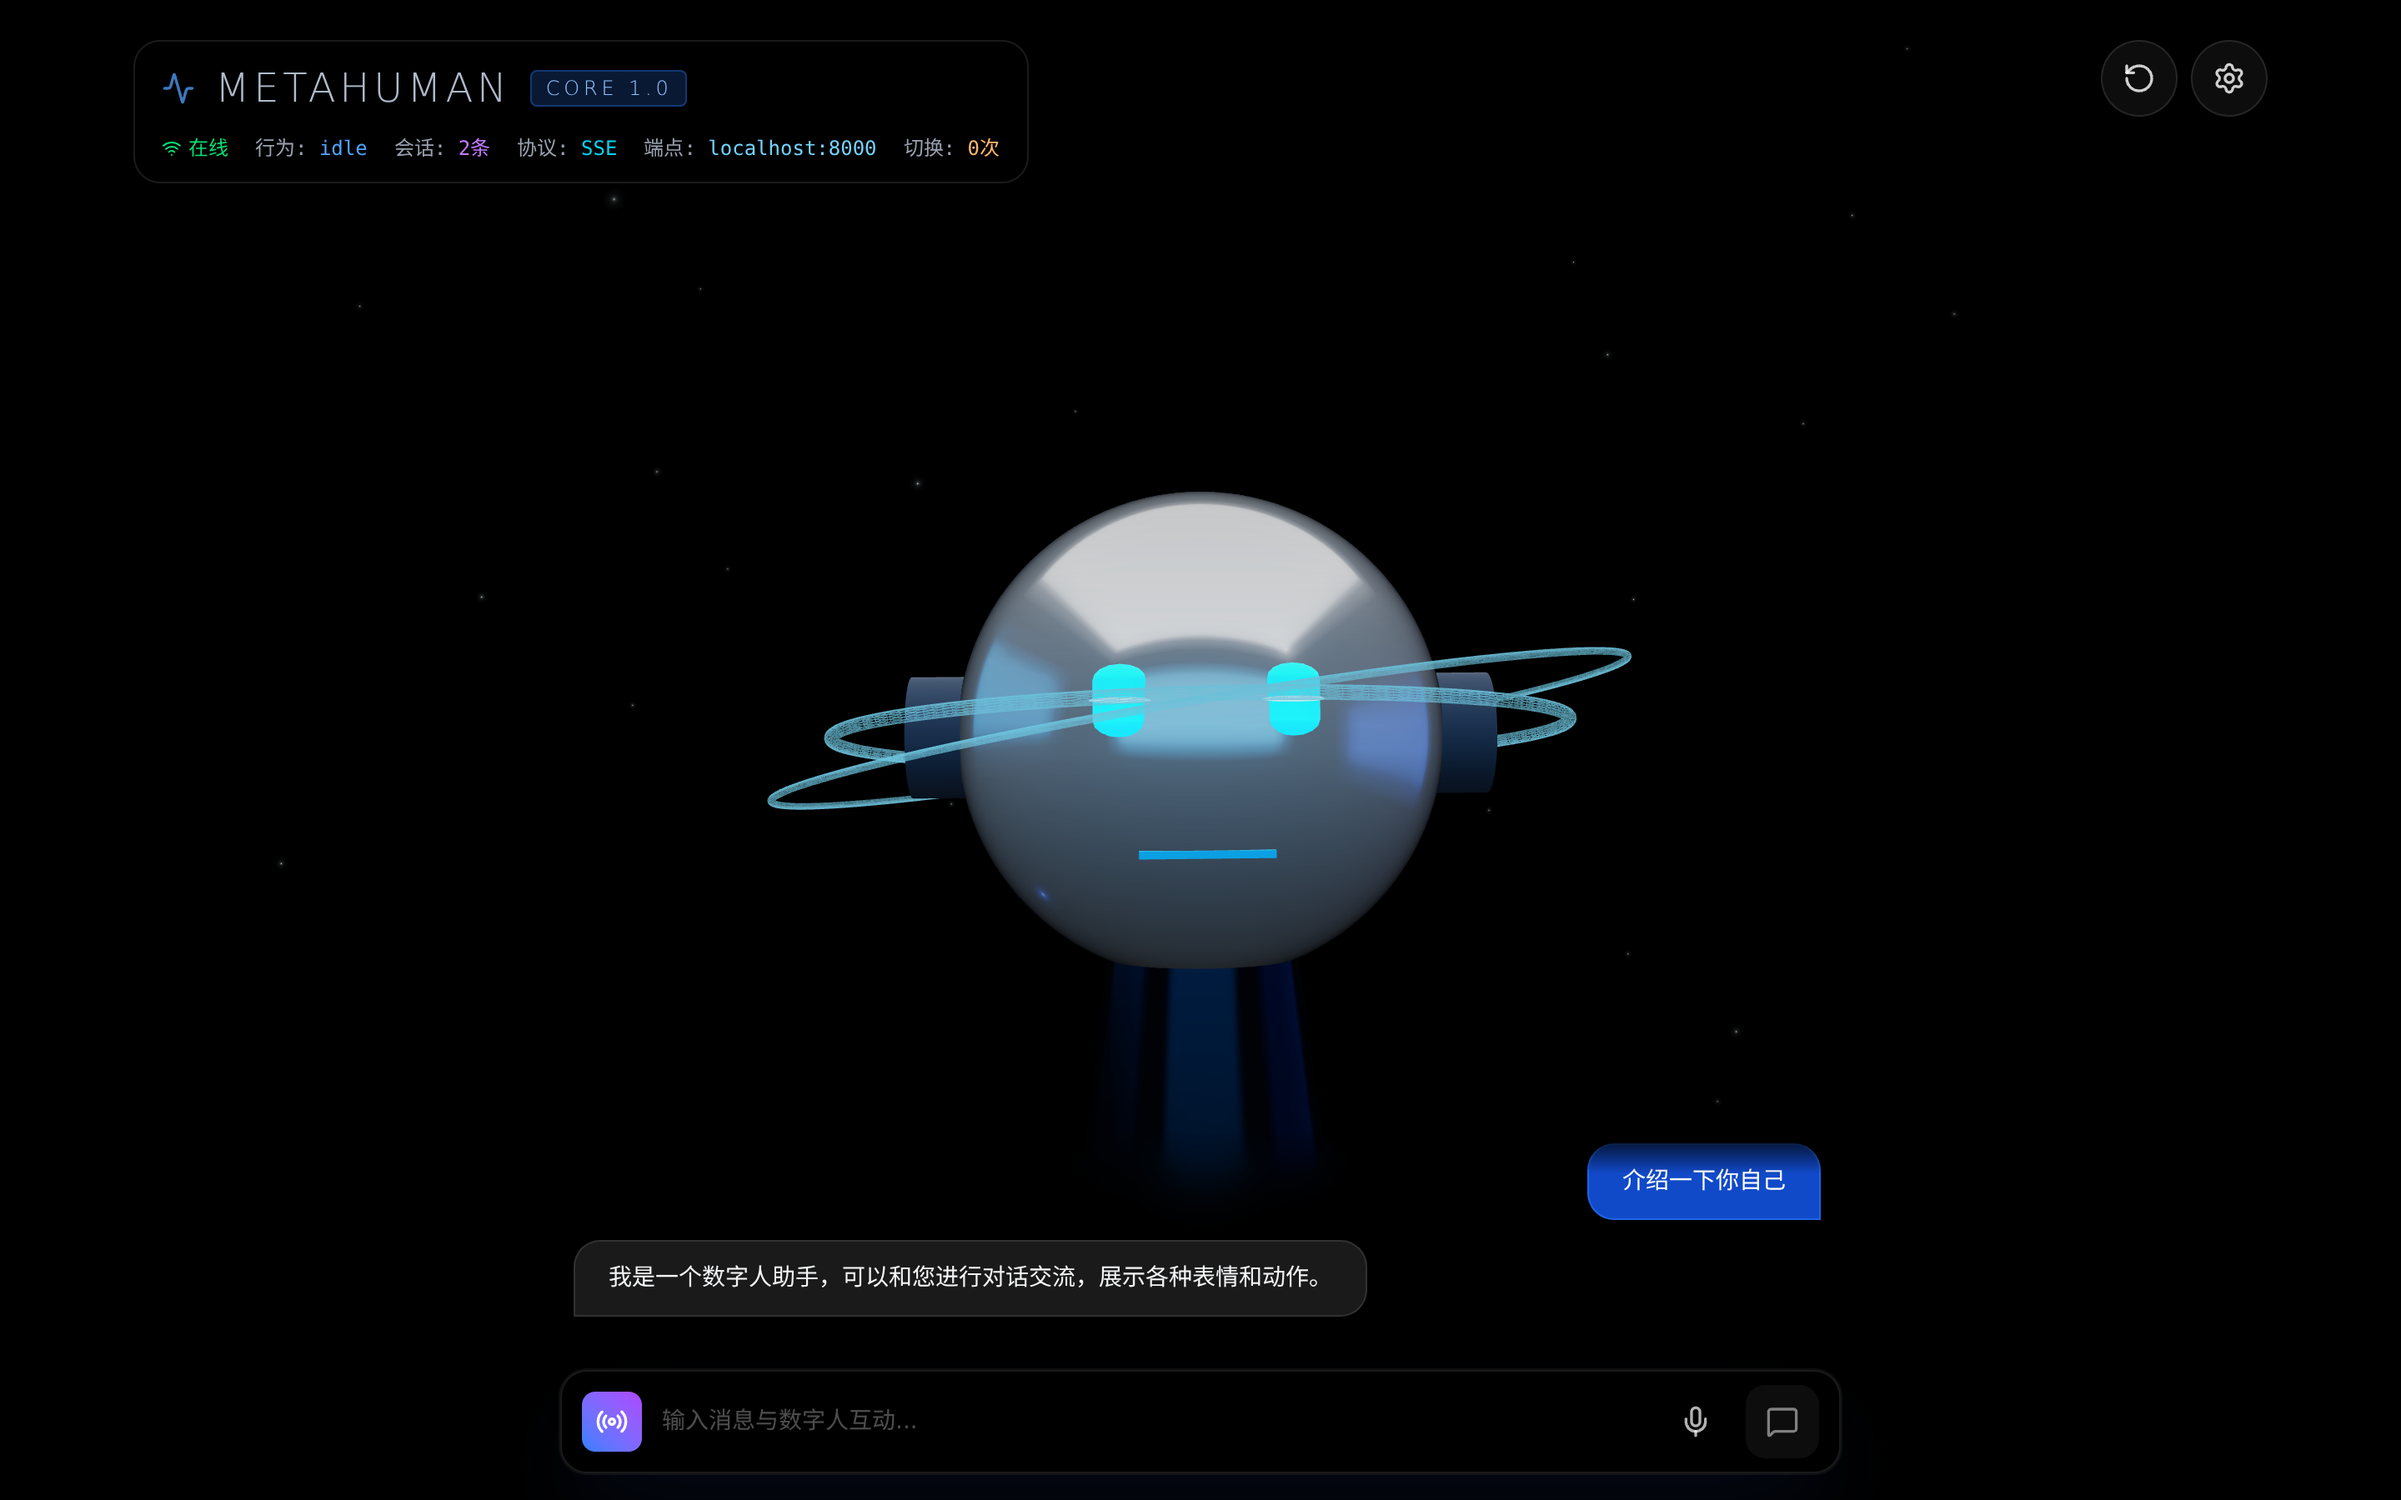
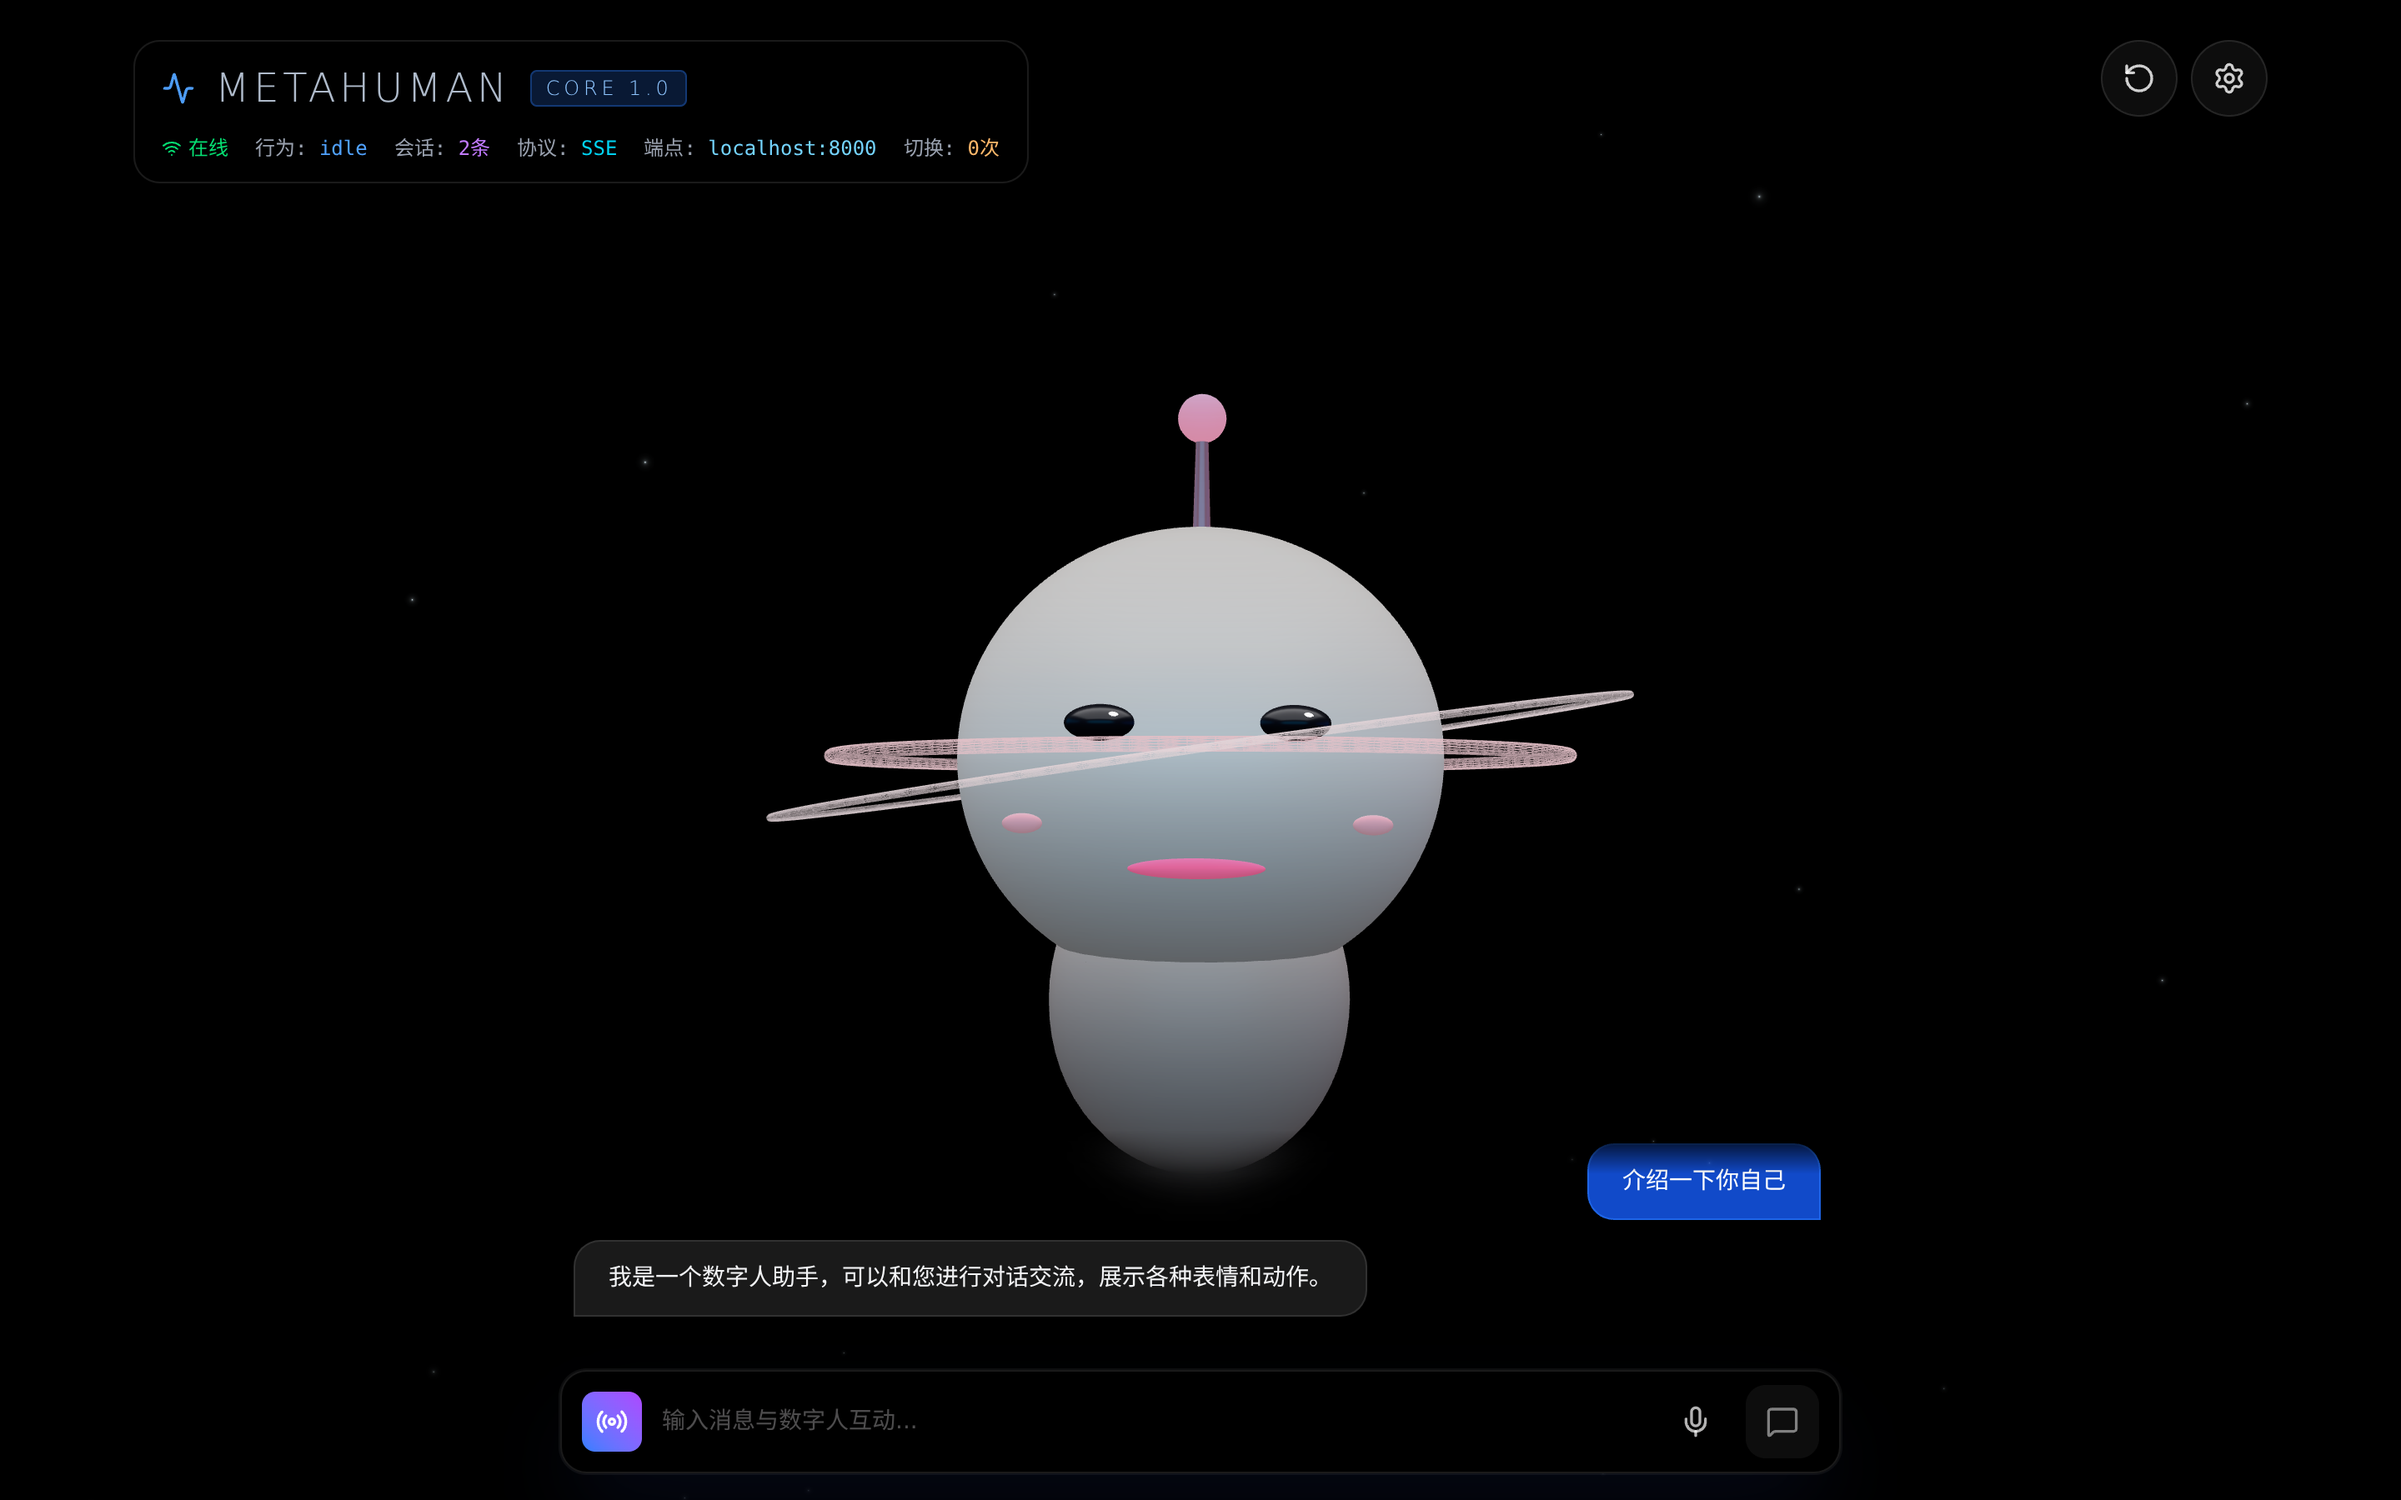
style: 默认数字人形象改为软萌可爱风格，README 精简为单张对话截图

Changed region(s): [[0.3125, 0.2489, 0.6875, 0.7778]]

diff --git a/src/components/viewer/CyberAvatar.tsx b/src/components/viewer/CyberAvatar.tsx
@@ -1,7 +1,7 @@
 /**
  * 程序化数字人头像组件。
  *
- * 使用 Three.js 基础几何体构建的赛博风格头像，
+ * 使用 Three.js 基础几何体构建的软萌可爱风格头像，
  * 支持表情、动画和语音同步。
  */
 
@@ -174,65 +174,96 @@ export function CyberAvatar({ prefersReducedMotion }: CyberAvatarProps) {
         rotationIntensity={0.2}
         floatIntensity={prefersReducedMotion ? 0 : 0.5}
       >
-        {/* --- 头部 --- */}
-        <mesh ref={headRef} position={[0, 0, 0]} castShadow receiveShadow>
-          {/* 主头部形状 - 平滑的胶囊/球体混合 */}
-          <sphereGeometry args={[0.8, 64, 64]} />
-          <meshPhysicalMaterial
-            color="#e2e8f0"
-            metalness={0.6}
-            roughness={0.2}
-            clearcoat={1}
-            clearcoatRoughness={0.1}
-          />
+        {/* --- 天线 --- */}
+        <mesh position={[0, 0.9, 0]}>
+          <cylinderGeometry args={[0.02, 0.03, 0.35, 16]} />
+          <meshStandardMaterial color="#ffb3c1" metalness={0.4} roughness={0.3} />
         </mesh>
-
-        {/* --- 眼睛 --- */}
-        <group position={[0, 0.1, 0.75]}>
-          <mesh ref={leftEyeRef} position={[-0.25, 0, 0]}>
-            <capsuleGeometry args={[0.08, 0.2, 4, 8]} />
-            <meshStandardMaterial
-              color="#0ea5e9"
-              emissive="#0ea5e9"
-              emissiveIntensity={2}
-              toneMapped={false}
-            />
-          </mesh>
-          <mesh ref={rightEyeRef} position={[0.25, 0, 0]}>
-            <capsuleGeometry args={[0.08, 0.2, 4, 8]} />
-            <meshStandardMaterial
-              color="#0ea5e9"
-              emissive="#0ea5e9"
-              emissiveIntensity={2}
-              toneMapped={false}
-            />
-          </mesh>
-          {/* 眼睛发光球体（瞳孔） */}
-          <mesh position={[-0.25, 0, 0.05]} scale={[1, 0.1, 1]}>
-            <sphereGeometry args={[0.09, 16, 16]} />
-            <meshStandardMaterial color="#0ea5e9" emissive="#0ea5e9" emissiveIntensity={4} />
-          </mesh>
-          <mesh position={[0.25, 0, 0.05]} scale={[1, 0.1, 1]}>
-            <sphereGeometry args={[0.09, 16, 16]} />
-            <meshStandardMaterial color="#0ea5e9" emissive="#0ea5e9" emissiveIntensity={4} />
-          </mesh>
-        </group>
-
-        {/* --- 嘴部（Lipsync 驱动） --- */}
-        <mesh ref={mouthRef} position={[0, -0.35, 0.72]} scale={[1, 0.15, 1]}>
-          <boxGeometry args={[0.4, 0.15, 0.05]} />
+        <mesh position={[0, 1.12, 0]}>
+          <sphereGeometry args={[0.08, 24, 24]} />
           <meshStandardMaterial
-            color="#0284c7"
-            emissive="#0284c7"
-            emissiveIntensity={1.5}
+            color="#ff8fab"
+            emissive="#ff8fab"
+            emissiveIntensity={1.2}
             toneMapped={false}
           />
         </mesh>
 
-        {/* --- 颈部/底座 --- */}
-        <mesh position={[0, -1, 0]}>
-          <cylinderGeometry args={[0.3, 0.4, 0.8, 32]} />
-          <meshStandardMaterial color="#334155" metalness={0.8} roughness={0.2} />
+        {/* --- 头部：圆润的大头，往可爱方向的比例 --- */}
+        <mesh ref={headRef} position={[0, 0, 0]} castShadow receiveShadow scale={[1, 0.95, 1]}>
+          <sphereGeometry args={[0.8, 64, 64]} />
+          <meshStandardMaterial color="#fff3ea" metalness={0.05} roughness={0.55} />
+        </mesh>
+
+        {/* --- 眼睛：大圆眼 + 高光 --- */}
+        <group position={[0, 0.12, 0.72]}>
+          <mesh ref={leftEyeRef} position={[-0.28, 0, 0]}>
+            <sphereGeometry args={[0.11, 24, 24]} />
+            <meshStandardMaterial color="#26262e" roughness={0.25} />
+            <mesh position={[0.035, 0.045, 0.075]} scale={[0.42, 0.42, 0.42]}>
+              <sphereGeometry args={[0.05, 12, 12]} />
+              <meshStandardMaterial
+                color="#ffffff"
+                emissive="#ffffff"
+                emissiveIntensity={0.8}
+                toneMapped={false}
+              />
+            </mesh>
+          </mesh>
+          <mesh ref={rightEyeRef} position={[0.28, 0, 0]}>
+            <sphereGeometry args={[0.11, 24, 24]} />
+            <meshStandardMaterial color="#26262e" roughness={0.25} />
+            <mesh position={[0.035, 0.045, 0.075]} scale={[0.42, 0.42, 0.42]}>
+              <sphereGeometry args={[0.05, 12, 12]} />
+              <meshStandardMaterial
+                color="#ffffff"
+                emissive="#ffffff"
+                emissiveIntensity={0.8}
+                toneMapped={false}
+              />
+            </mesh>
+          </mesh>
+        </group>
+
+        {/* --- 腮红：软粉脸颊 --- */}
+        <mesh position={[-0.52, -0.18, 0.64]} scale={[0.5, 0.25, 0.2]}>
+          <sphereGeometry args={[0.12, 16, 16]} />
+          <meshStandardMaterial
+            color="#ffb3c1"
+            transparent
+            opacity={0.85}
+            emissive="#ffb3c1"
+            emissiveIntensity={0.3}
+            toneMapped={false}
+          />
+        </mesh>
+        <mesh position={[0.52, -0.18, 0.64]} scale={[0.5, 0.25, 0.2]}>
+          <sphereGeometry args={[0.12, 16, 16]} />
+          <meshStandardMaterial
+            color="#ffb3c1"
+            transparent
+            opacity={0.85}
+            emissive="#ffb3c1"
+            emissiveIntensity={0.3}
+            toneMapped={false}
+          />
+        </mesh>
+
+        {/* --- 嘴部（Lipsync 驱动，椭圆小嘴） --- */}
+        <mesh ref={mouthRef} position={[0, -0.3, 0.78]} scale={[0.85, 0.2, 0.15]}>
+          <sphereGeometry args={[0.2, 24, 24]} />
+          <meshStandardMaterial
+            color="#ff6b9d"
+            emissive="#ff6b9d"
+            emissiveIntensity={0.6}
+            toneMapped={false}
+          />
+        </mesh>
+
+        {/* --- 软萌小身体 --- */}
+        <mesh position={[0, -0.8, 0]} scale={[1, 1.15, 1]} castShadow>
+          <sphereGeometry args={[0.5, 32, 32]} />
+          <meshStandardMaterial color="#fde8e0" metalness={0.05} roughness={0.55} />
         </mesh>
 
         {/* --- 全息光环 --- */}
@@ -240,9 +271,9 @@ export function CyberAvatar({ prefersReducedMotion }: CyberAvatarProps) {
           <mesh rotation={[Math.PI / 2, 0, 0]}>
             <torusGeometry args={[1.2, 0.02, 16, 100]} />
             <meshBasicMaterial
-              color="#38bdf8"
+              color="#ffb3c1"
               transparent
-              opacity={0.3}
+              opacity={0.35}
               side={THREE.DoubleSide}
               wireframe
             />
@@ -250,7 +281,7 @@ export function CyberAvatar({ prefersReducedMotion }: CyberAvatarProps) {
           <mesh rotation={[Math.PI / 2.2, 0, 0]}>
             <torusGeometry args={[1.4, 0.01, 16, 100]} />
             <meshBasicMaterial
-              color="#38bdf8"
+              color="#ffd6e0"
               transparent
               opacity={0.3}
               side={THREE.DoubleSide}
@@ -258,16 +289,6 @@ export function CyberAvatar({ prefersReducedMotion }: CyberAvatarProps) {
             />
           </mesh>
         </group>
-
-        {/* --- 耳机 --- */}
-        <mesh position={[0.8, 0, 0]} rotation={[0, 0, Math.PI / 2]}>
-          <cylinderGeometry args={[0.2, 0.2, 0.3, 32]} />
-          <meshStandardMaterial color="#475569" />
-        </mesh>
-        <mesh position={[-0.8, 0, 0]} rotation={[0, 0, Math.PI / 2]}>
-          <cylinderGeometry args={[0.2, 0.2, 0.3, 32]} />
-          <meshStandardMaterial color="#475569" />
-        </mesh>
       </Float>
     </group>
   );

diff --git a/README.md b/README.md
@@ -19,9 +19,7 @@
 ## 截图
 
 <p align="center">
-  <img src="docs/screenshots/viewer.png" width="720" alt="3D 数字人交互界面" />
   <img src="docs/screenshots/viewer-chat.png" width="720" alt="与数字人对话" />
-  <img src="docs/screenshots/landing.png" width="720" alt="Landing 页面" />
 </p>
 
 ## 特性
